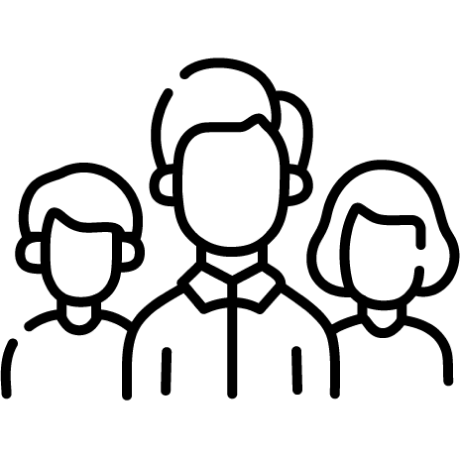
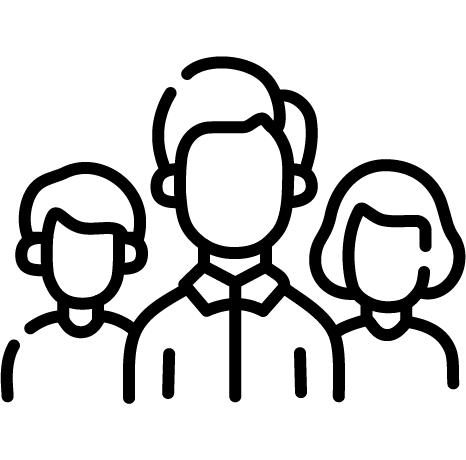
about02画像差し替え 各部さいず調整

Changed region(s): [[0.0, 0.1217, 1.0, 0.8826], [0.3348, 0.7609, 0.3957, 0.8826], [0.6087, 0.7609, 0.6696, 0.8826]]

diff --git a/index.html b/index.html
@@ -249,7 +249,7 @@
                         </li>
                       </ul>
                     </div>
-
+                    <img src="img/hero_04.svg" alt="" />
                     <div class="b-serviceContents__advantageResult b-boxFlame__line b-boxFlame__line--orange">
                       <p class="b-serviceContents__boxResult">クライアントに最適なWebサイトを提供</p>
                       <figure class="b-serviceContents__boxIcon">
@@ -406,7 +406,7 @@
                 <div class="b-guidance b-guidance--reason">
                   <p class="b-guidance__number flame flame--blue">03</p>
                   <img
-                    class="b-guidance__icon b-image"
+                    class="b-guidance__icon small b-image"
                     src="img/reason_guidance_02.png"
                     width="180px"
                     height="180px"

diff --git a/css/style.css b/css/style.css
@@ -153,6 +153,7 @@ body {
   font-weight: 600;
   line-height: 1.6;
   color: #242422;
+  background-color: #fff;
 }
 
 a {
@@ -408,6 +409,7 @@ Layout
   right: 9.5%;
   top: 10px;
   right: 136px;
+  z-index: 1;
 }
 .s-hero .l-L03 .b-hero__parts05 {
   top: 17%;
@@ -1736,6 +1738,10 @@ Block
   .b-guidance--reason .b-guidance__icon {
     width: 180px;
     margin-bottom: 24px;
+  }
+  .b-guidance--reason .b-guidance__icon.small {
+    width: 160px;
+    height: 180px;
   }
   .b-guidance--flow {
     width: 214px;

diff --git a/scss/02_layouts/_l-footer.scss b/scss/02_layouts/_l-footer.scss
@@ -4,7 +4,11 @@
 ----------------------------------------------- */
 .footer {
   & .l-S02 {
+    // position: fixed;
+    // left: 0;
+    // bottom: 0;
     background-color: $textColor;
+    // z-index: -10;
   }
   & .l-S03 {
     padding: 104px 0;

diff --git a/scss/04_blocks/_b-flame.scss b/scss/04_blocks/_b-flame.scss
@@ -167,6 +167,10 @@
       & .b-guidance__icon {
         width: 180px;
         margin-bottom: 24px;
+        &.small {
+          width: 160px;
+          height: 180px;
+        }
       }
     }
 

diff --git a/scss/02_layouts/_l-main.scss b/scss/02_layouts/_l-main.scss
@@ -76,6 +76,7 @@
         right: 9.5%;
         top: 10px;
         right: 136px;
+        z-index: 1;
       }
 
       &__parts05 {

diff --git a/scss/01_foundation/variable/_base.scss b/scss/01_foundation/variable/_base.scss
@@ -9,6 +9,7 @@ body {
   font-weight: 600;
   line-height: 1.6;
   color: $textColor;
+  background-color: $whiteColor;
 }
 
 a {
